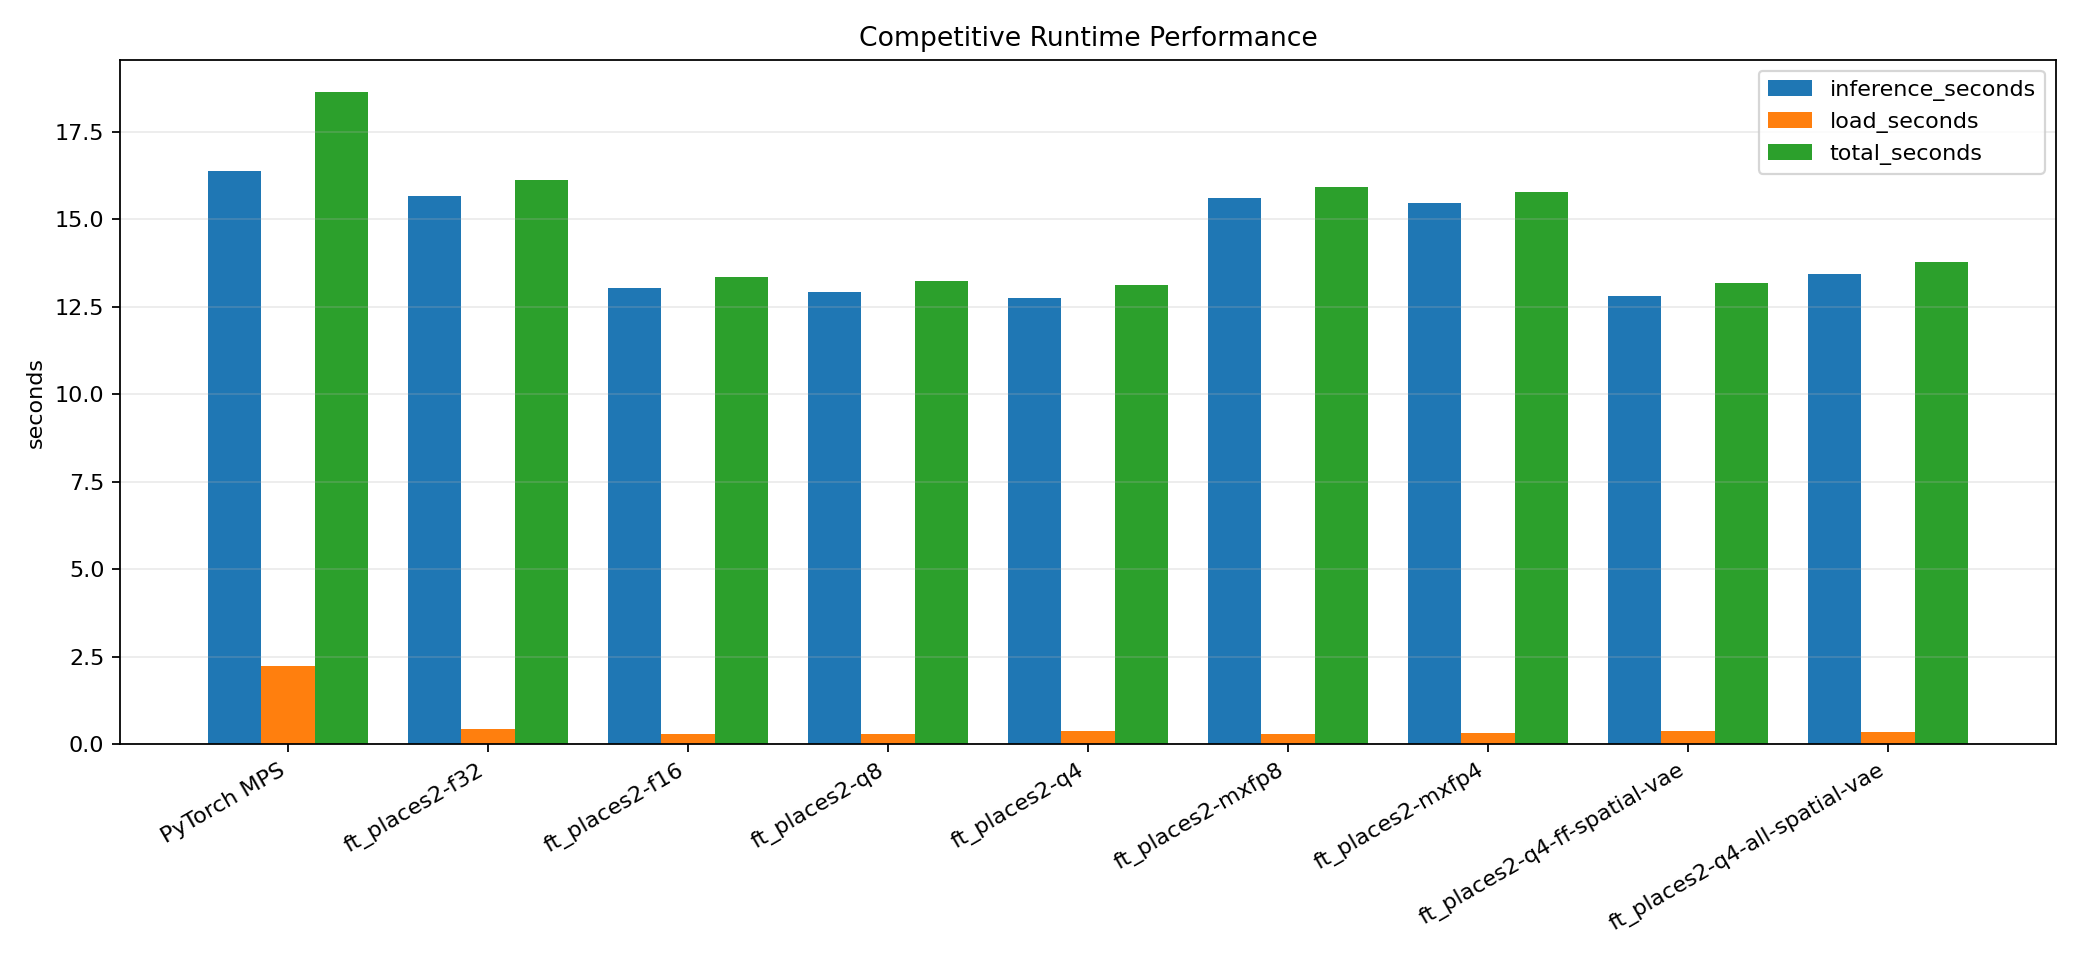
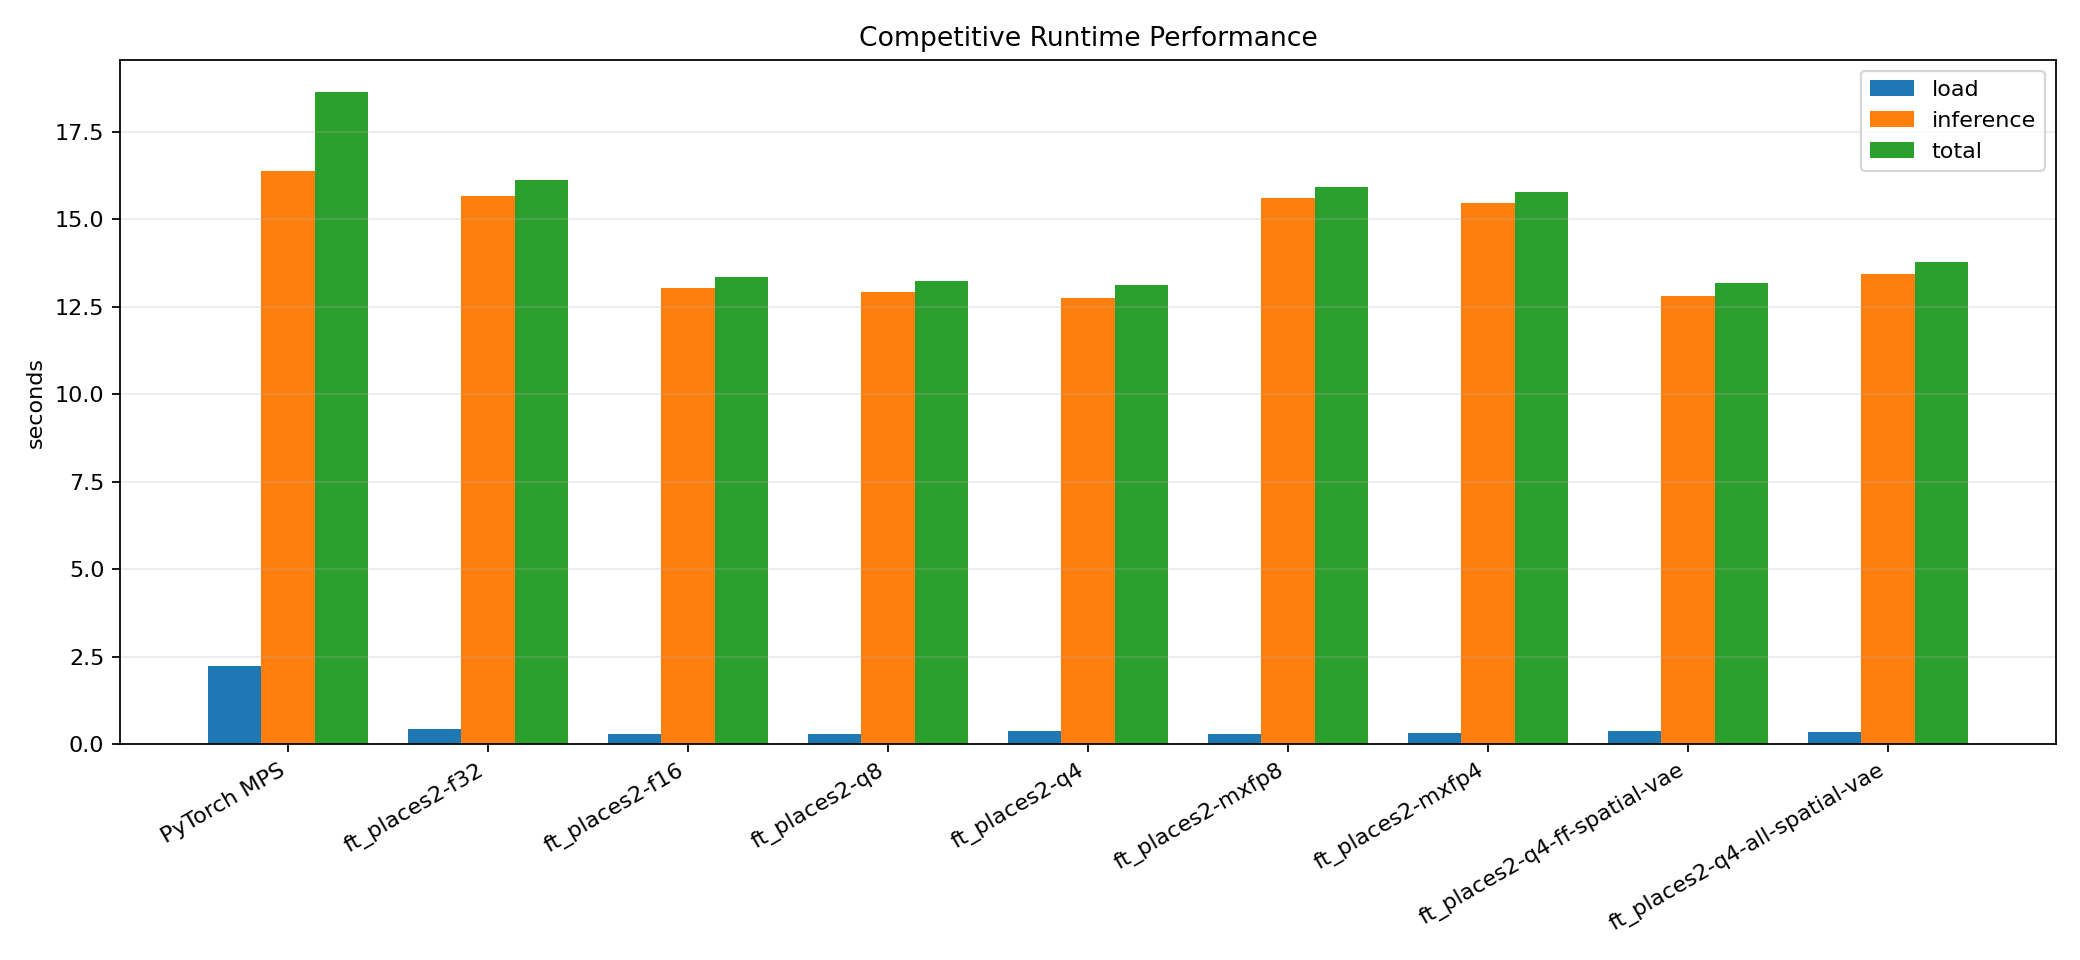
Reorder benchmark timing chart bars

diff --git a/Scripts/run_cross_runtime_benchmark.py b/Scripts/run_cross_runtime_benchmark.py
@@ -516,7 +516,8 @@ def plot_reports(args: argparse.Namespace, rows: list[RuntimeRow]) -> None:
         width = 0.8 / len(keys)
         fig, ax = plt.subplots(figsize=(13, 6))
         for index, key in enumerate(keys):
-            ax.bar(x + (index - (len(keys) - 1) / 2) * width, [getattr(row, key) for row in chart_rows], width=width, label=key)
+            label = key.replace("_seconds", "").replace("_", " ")
+            ax.bar(x + (index - (len(keys) - 1) / 2) * width, [getattr(row, key) for row in chart_rows], width=width, label=label)
         if log:
             ax.set_yscale("log")
         ax.set_title(title)
@@ -530,7 +531,7 @@ def plot_reports(args: argparse.Namespace, rows: list[RuntimeRow]) -> None:
         plt.close(fig)
 
     save_grouped(["max_abs", "mean_abs", "rmse", "p99_abs"], "Competitive Fidelity vs Reference", "absolute latent error, log scale", "fidelity_errors.png", log=True)
-    save_grouped(["inference_seconds", "load_seconds", "total_seconds"], "Competitive Runtime Performance", "seconds", "performance_timings.png")
+    save_grouped(["load_seconds", "inference_seconds", "total_seconds"], "Competitive Runtime Performance", "seconds", "performance_timings.png")
 
     fig, ax = plt.subplots(figsize=(12, 5.8))
     bars = ax.bar(names, [row.model_mb for row in chart_rows], color="#2563eb")
@@ -652,12 +653,12 @@ def write_summary(args: argparse.Namespace, rows: list[RuntimeRow]) -> None:
         "",
         "## Results",
         "",
-        "| name | backend | model MB | max abs | mean abs | RMSE | p99 abs | PSNR dB | cosine | inference s | load s | total s | device |",
+        "| name | backend | model MB | max abs | mean abs | RMSE | p99 abs | PSNR dB | cosine | load s | inference s | total s | device |",
         "|---|---|---:|---:|---:|---:|---:|---:|---:|---:|---:|---:|---|",
     ]
     for row in rows:
         lines.append(
-            f"| {row.name} | {row.backend} | {row.model_mb:.2f} | {finite(row.max_abs)} | {finite(row.mean_abs)} | {finite(row.rmse)} | {finite(row.p99_abs)} | {finite(row.psnr_db)} | {row.cosine:.8f} | {row.inference_seconds:.3f} | {row.load_seconds:.3f} | {row.total_seconds:.3f} | {row.device} |"
+            f"| {row.name} | {row.backend} | {row.model_mb:.2f} | {finite(row.max_abs)} | {finite(row.mean_abs)} | {finite(row.rmse)} | {finite(row.p99_abs)} | {finite(row.psnr_db)} | {row.cosine:.8f} | {row.load_seconds:.3f} | {row.inference_seconds:.3f} | {row.total_seconds:.3f} | {row.device} |"
         )
     lines.extend(
         [

diff --git a/Scripts/plot_benchmark_report.py b/Scripts/plot_benchmark_report.py
@@ -15,7 +15,7 @@ import matplotlib.pyplot as plt
 
 
 FIDELITY_COLUMNS = ["max_abs", "mean_abs", "rmse", "p99_abs"]
-SPEED_COLUMNS = ["inference_seconds", "load_seconds", "total_seconds"]
+SPEED_COLUMNS = ["load_seconds", "inference_seconds", "total_seconds"]
 
 
 def parse_float(value: str) -> float:
@@ -100,8 +100,8 @@ def save_speed_chart(rows: list[dict[str, float | str]], output: Path) -> None:
     x = list(range(len(names)))
     width = 0.25
     fig, ax = plt.subplots(figsize=(12, 6))
-    colors = ["#2563eb", "#f59e0b", "#64748b"]
-    labels = ["inference", "load", "total"]
+    colors = ["#f59e0b", "#2563eb", "#64748b"]
+    labels = ["load", "inference", "total"]
     for index, (column, label) in enumerate(zip(SPEED_COLUMNS, labels)):
         offsets = [position + (index - 1) * width for position in x]
         ax.bar(offsets, values(rows, column), width=width, label=label, color=colors[index])
@@ -144,12 +144,12 @@ def write_summary(rows: list[dict[str, float | str]], output_dir: Path, source: 
         "",
         f"Source TSV: `{source}`",
         "",
-        "| variant | model MB | max abs | mean abs | RMSE | p99 abs | PSNR dB | cosine | inference s | load s | total s |",
+        "| variant | model MB | max abs | mean abs | RMSE | p99 abs | PSNR dB | cosine | load s | inference s | total s |",
         "|---|---:|---:|---:|---:|---:|---:|---:|---:|---:|---:|",
     ]
     for row in rows:
         lines.append(
-            "| {variant} | {model_mb:.2f} | {max_abs:.6g} | {mean_abs:.6g} | {rmse:.6g} | {p99_abs:.6g} | {psnr_db:.3f} | {cosine:.8f} | {inference_seconds:.3f} | {load_seconds:.3f} | {total_seconds:.3f} |".format(
+            "| {variant} | {model_mb:.2f} | {max_abs:.6g} | {mean_abs:.6g} | {rmse:.6g} | {p99_abs:.6g} | {psnr_db:.3f} | {cosine:.8f} | {load_seconds:.3f} | {inference_seconds:.3f} | {total_seconds:.3f} |".format(
                 variant=row["variant"],
                 model_mb=float(row["model_mb"]),
                 max_abs=float(row["max_abs"]),

diff --git a/Docs/BenchmarkReports/ft_places2-cross-runtime-steps20/README.md b/Docs/BenchmarkReports/ft_places2-cross-runtime-steps20/README.md
@@ -6,20 +6,20 @@ This benchmark compares deterministic latent denoising across PyTorch, ONNX, and
 
 ## Results
 
-| name | backend | model MB | max abs | mean abs | RMSE | p99 abs | PSNR dB | cosine | inference s | load s | total s | device |
+| name | backend | model MB | max abs | mean abs | RMSE | p99 abs | PSNR dB | cosine | load s | inference s | total s | device |
 |---|---|---:|---:|---:|---:|---:|---:|---:|---:|---:|---:|---|
-| PyTorch CPU | pytorch | 1072.69 | 0 | 0 | 0 | 0 | inf | 1.00000000 | 179.717 | 1.916 | 181.633 | cpu |
-| PyTorch MPS | pytorch | 1072.69 | 0.055172 | 0.000183825 | 0.000897029 | 0.00176543 | 70.8283 | 0.99999955 | 16.382 | 2.247 | 18.630 | mps |
-| ONNX CPU | onnx | 1241.53 | 0.125978 | 0.00101598 | 0.00322937 | 0.0109017 | 59.702 | 0.99999213 | 97.228 | 1.388 | 98.616 | CPUExecutionProvider |
-| ONNX CoreML | onnx | 1241.53 | 0.841326 | 0.00207069 | 0.00985454 | 0.0165638 | 50.0117 | 0.99992732 | 142.536 | 22.982 | 165.518 | CoreMLExecutionProvider |
-| ft_places2-f32 | mlx | 1239.58 | 0.00028491 | 1.23228e-06 | 4.14012e-06 | 8.706e-06 | 117.544 | 1.00000000 | 15.675 | 0.445 | 16.119 | MLX |
-| ft_places2-f16 | mlx | 619.89 | 1.83459 | 0.0927747 | 0.165353 | 0.732445 | 25.516 | 0.98055822 | 13.046 | 0.307 | 13.354 | MLX |
-| ft_places2-q8 | mlx | 600.23 | 1.83604 | 0.092583 | 0.165028 | 0.725383 | 25.533 | 0.98064196 | 12.937 | 0.306 | 13.243 | MLX |
-| ft_places2-q4 | mlx | 475.67 | 1.95174 | 0.0946017 | 0.174932 | 0.78023 | 25.027 | 0.97803926 | 12.765 | 0.372 | 13.138 | MLX |
-| ft_places2-mxfp8 | mlx | 599.56 | 1.75212 | 0.0899991 | 0.164387 | 0.710897 | 25.567 | 0.98055184 | 15.620 | 0.304 | 15.924 | MLX |
-| ft_places2-mxfp4 | mlx | 589.09 | 2.52791 | 0.0963022 | 0.184424 | 0.821634 | 24.568 | 0.97593838 | 15.468 | 0.313 | 15.781 | MLX |
-| ft_places2-q4-ff-spatial-vae | mlx | 322.50 | 1.96512 | 0.0965489 | 0.177565 | 0.80164 | 24.897 | 0.97712547 | 12.803 | 0.391 | 13.195 | MLX |
-| ft_places2-q4-all-spatial-vae | mlx | 200.50 | 2.14916 | 0.158849 | 0.254075 | 0.979826 | 21.785 | 0.95224071 | 13.429 | 0.340 | 13.769 | MLX |
+| PyTorch CPU | pytorch | 1072.69 | 0 | 0 | 0 | 0 | inf | 1.00000000 | 1.916 | 179.717 | 181.633 | cpu |
+| PyTorch MPS | pytorch | 1072.69 | 0.055172 | 0.000183825 | 0.000897029 | 0.00176543 | 70.8283 | 0.99999955 | 2.247 | 16.382 | 18.630 | mps |
+| ONNX CPU | onnx | 1241.53 | 0.125978 | 0.00101598 | 0.00322937 | 0.0109017 | 59.702 | 0.99999213 | 1.388 | 97.228 | 98.616 | CPUExecutionProvider |
+| ONNX CoreML | onnx | 1241.53 | 0.841326 | 0.00207069 | 0.00985454 | 0.0165638 | 50.0117 | 0.99992732 | 22.982 | 142.536 | 165.518 | CoreMLExecutionProvider |
+| ft_places2-f32 | mlx | 1239.58 | 0.00028491 | 1.23228e-06 | 4.14012e-06 | 8.706e-06 | 117.544 | 1.00000000 | 0.445 | 15.675 | 16.119 | MLX |
+| ft_places2-f16 | mlx | 619.89 | 1.83459 | 0.0927747 | 0.165353 | 0.732445 | 25.516 | 0.98055822 | 0.307 | 13.046 | 13.354 | MLX |
+| ft_places2-q8 | mlx | 600.23 | 1.83604 | 0.092583 | 0.165028 | 0.725383 | 25.533 | 0.98064196 | 0.306 | 12.937 | 13.243 | MLX |
+| ft_places2-q4 | mlx | 475.67 | 1.95174 | 0.0946017 | 0.174932 | 0.78023 | 25.027 | 0.97803926 | 0.372 | 12.765 | 13.138 | MLX |
+| ft_places2-mxfp8 | mlx | 599.56 | 1.75212 | 0.0899991 | 0.164387 | 0.710897 | 25.567 | 0.98055184 | 0.304 | 15.620 | 15.924 | MLX |
+| ft_places2-mxfp4 | mlx | 589.09 | 2.52791 | 0.0963022 | 0.184424 | 0.821634 | 24.568 | 0.97593838 | 0.313 | 15.468 | 15.781 | MLX |
+| ft_places2-q4-ff-spatial-vae | mlx | 322.50 | 1.96512 | 0.0965489 | 0.177565 | 0.80164 | 24.897 | 0.97712547 | 0.391 | 12.803 | 13.195 | MLX |
+| ft_places2-q4-all-spatial-vae | mlx | 200.50 | 2.14916 | 0.158849 | 0.254075 | 0.979826 | 21.785 | 0.95224071 | 0.340 | 13.429 | 13.769 | MLX |
 
 ## Interpretation
 

diff --git a/Docs/BenchmarkReports/ft_places2-onnx-steps20-visible-variants/README.md b/Docs/BenchmarkReports/ft_places2-onnx-steps20-visible-variants/README.md
@@ -1,19 +1,17 @@
 # Moebius MLX ft_places2 onnx steps=20
 
-This is a supplemental historical report for the demo-visible MLX variants against an ONNX-generated latent fixture. The current public cross-runtime benchmark is in [../ft_places2-cross-runtime-steps20](../ft_places2-cross-runtime-steps20/).
+Source TSV: `Docs/BenchmarkReports/ft_places2-onnx-steps20-visible-variants/benchmark.tsv`
 
-Source TSV: `benchmark.tsv`
-
-| variant | model MB | max abs | mean abs | RMSE | p99 abs | PSNR dB | cosine | inference s | load s | total s |
+| variant | model MB | max abs | mean abs | RMSE | p99 abs | PSNR dB | cosine | load s | inference s | total s |
 |---|---:|---:|---:|---:|---:|---:|---:|---:|---:|---:|
-| ft_places2-f32 | 1239.58 | 0.000272334 | 1.73542e-06 | 5.94996e-06 | 1.0103e-05 | 114.394 | 1.00000000 | 26.777 | 0.420 | 27.197 |
-| ft_places2-f16 | 619.89 | 1.83539 | 0.0930781 | 0.165905 | 0.73437 | 25.487 | 0.98042941 | 20.783 | 0.285 | 21.069 |
-| ft_places2-q8 | 600.23 | 1.83764 | 0.0928631 | 0.165784 | 0.738405 | 25.494 | 0.98044908 | 20.021 | 0.280 | 20.301 |
-| ft_places2-q4 | 475.67 | 1.95124 | 0.0951408 | 0.176075 | 0.786058 | 24.971 | 0.97774184 | 18.039 | 0.329 | 18.368 |
-| ft_places2-mxfp8 | 599.56 | 1.74931 | 0.0901569 | 0.164743 | 0.717825 | 25.548 | 0.98046005 | 21.273 | 0.277 | 21.550 |
-| ft_places2-mxfp4 | 589.09 | 2.52835 | 0.0962882 | 0.184187 | 0.811111 | 24.579 | 0.97599477 | 20.942 | 0.273 | 21.216 |
-| ft_places2-q4-ff-spatial-vae | 322.50 | 1.96471 | 0.0968293 | 0.17823 | 0.803101 | 24.865 | 0.97694558 | 17.184 | 0.345 | 17.529 |
-| ft_places2-q4-all-spatial-vae | 200.50 | 2.14852 | 0.158999 | 0.254395 | 0.981538 | 21.774 | 0.95212305 | 17.438 | 0.255 | 17.693 |
+| ft_places2-f32 | 1239.58 | 0.000272334 | 1.73542e-06 | 5.94996e-06 | 1.0103e-05 | 114.394 | 1.00000000 | 0.420 | 26.777 | 27.197 |
+| ft_places2-f16 | 619.89 | 1.83539 | 0.0930781 | 0.165905 | 0.73437 | 25.487 | 0.98042941 | 0.285 | 20.783 | 21.069 |
+| ft_places2-q8 | 600.23 | 1.83764 | 0.0928631 | 0.165784 | 0.738405 | 25.494 | 0.98044908 | 0.280 | 20.021 | 20.301 |
+| ft_places2-q4 | 475.67 | 1.95124 | 0.0951408 | 0.176075 | 0.786058 | 24.971 | 0.97774184 | 0.329 | 18.039 | 18.368 |
+| ft_places2-mxfp8 | 599.56 | 1.74931 | 0.0901569 | 0.164743 | 0.717825 | 25.548 | 0.98046005 | 0.277 | 21.273 | 21.550 |
+| ft_places2-mxfp4 | 589.09 | 2.52835 | 0.0962882 | 0.184187 | 0.811111 | 24.579 | 0.97599477 | 0.273 | 20.942 | 21.216 |
+| ft_places2-q4-ff-spatial-vae | 322.50 | 1.96471 | 0.0968293 | 0.17823 | 0.803101 | 24.865 | 0.97694558 | 0.345 | 17.184 | 17.529 |
+| ft_places2-q4-all-spatial-vae | 200.50 | 2.14852 | 0.158999 | 0.254395 | 0.981538 | 21.774 | 0.95212305 | 0.255 | 17.438 | 17.693 |
 
 - Lowest RMSE: `ft_places2-f32` at `5.94996e-06`.
 - Fastest inference: `ft_places2-q4-ff-spatial-vae` at `17.184s`.
